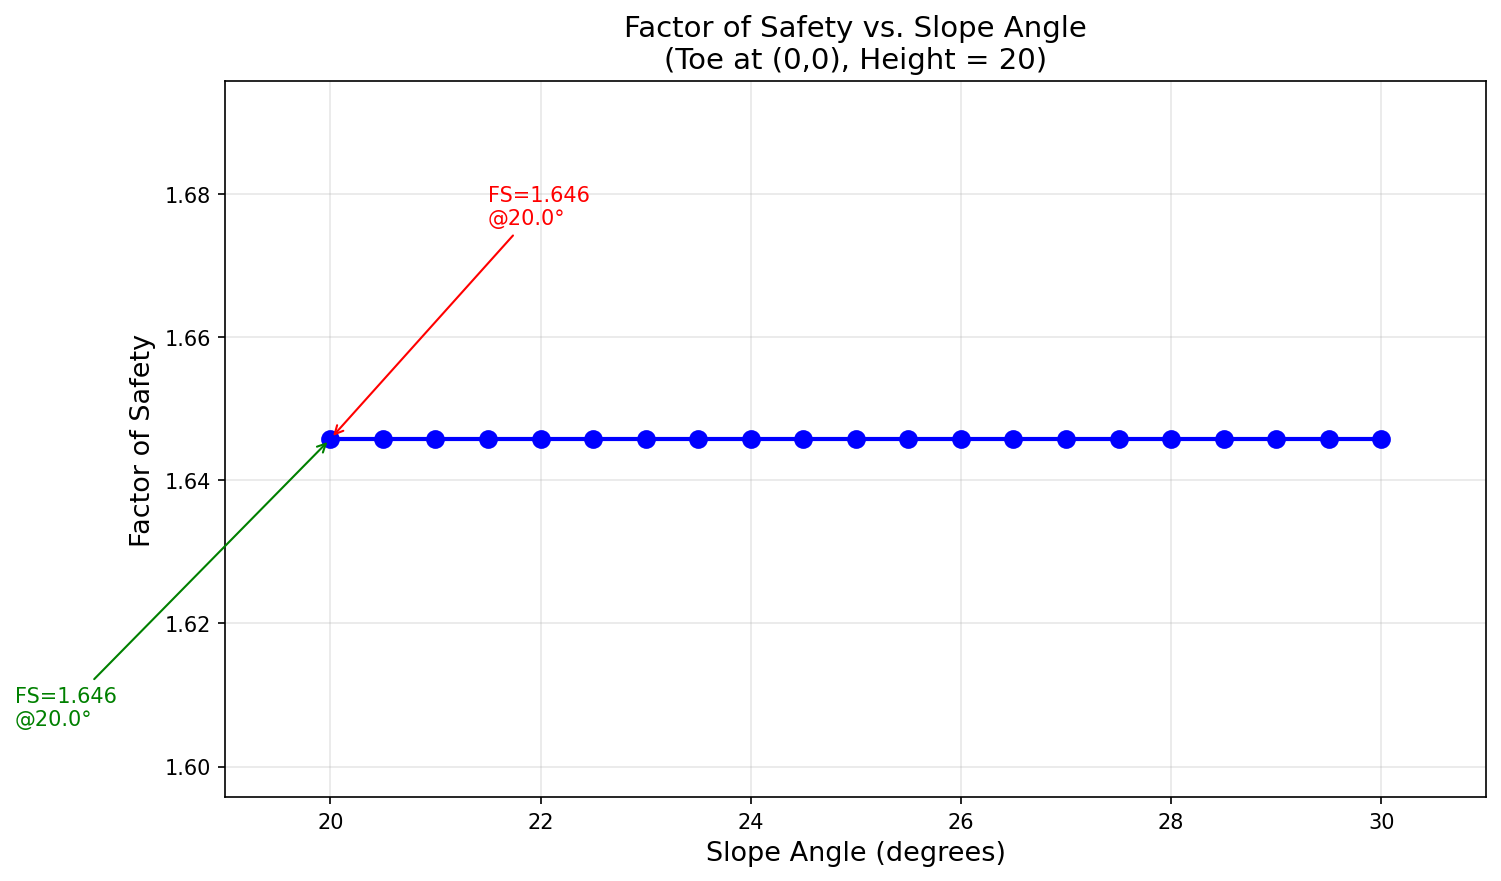
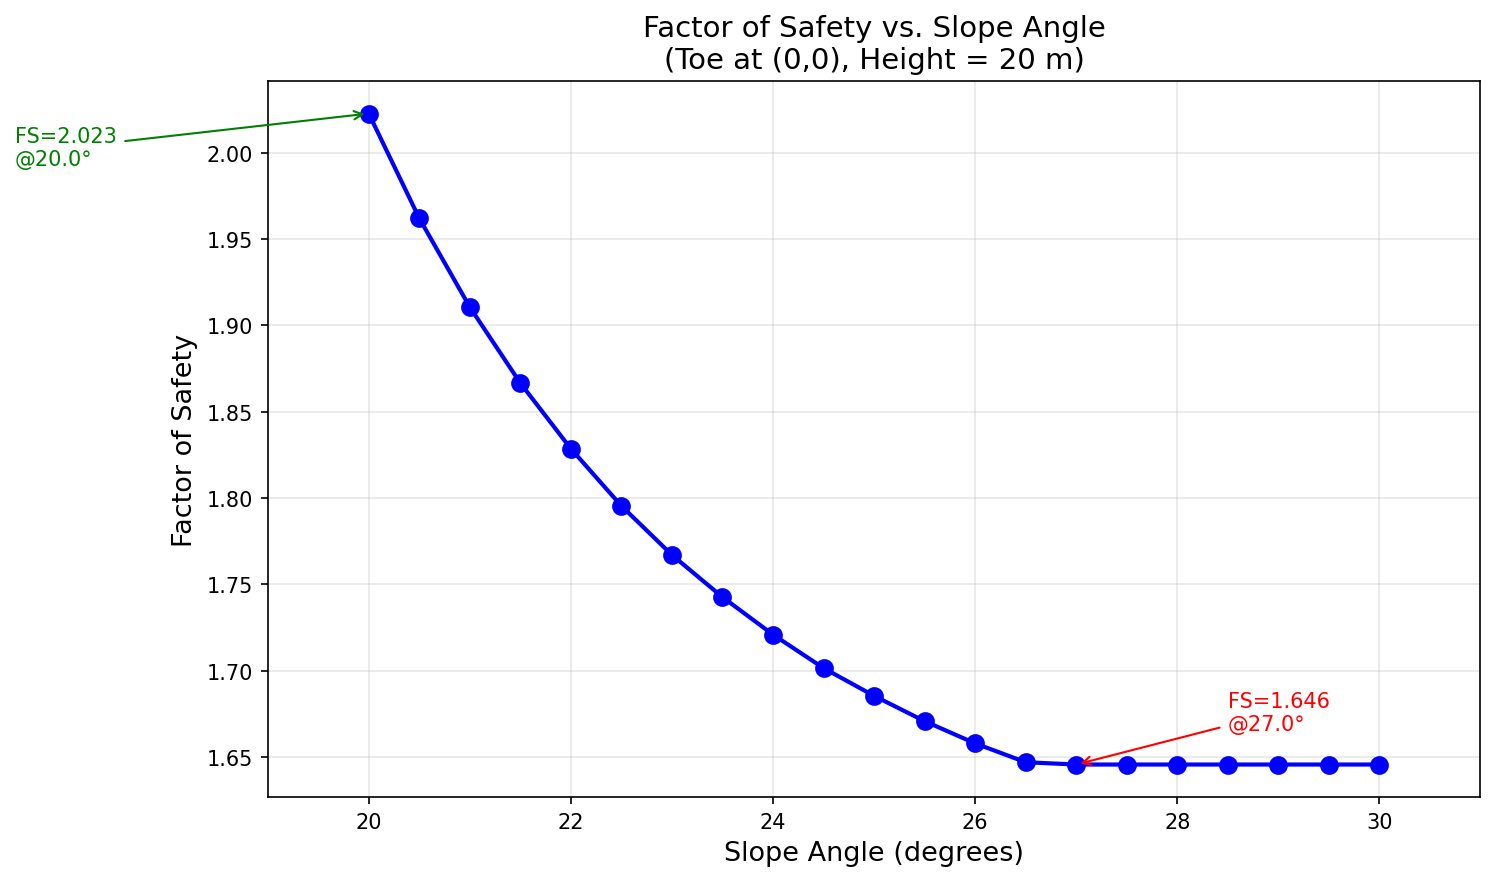
fix(studio): geometry sweeps must rebuild derived geometry per iteration
A parametric sweep that edits profile_lines in a loop and analyzes each step got
a constant FS: the canvas auto-resync (_resync_geometry) runs only once AFTER a
run_python snippet returns, never between loop iterations, so every iteration
analyzed the stale original ground_surface. The assistant then invented a bogus
phi=0 physics explanation. (My SCHEMA_BRIEF "editing the source lists is enough"
reinforced the mistake.)

- kernel: add a `resync_geometry()` helper (rebuilds ground_surface / polygons /
  domain_polygon / tcrack from profile_lines|polygons, reusing the editors'
  _resync_geometry), and have `run_lem()` call it first so geometry edits always
  take effect. run_lem docstring notes plot=False for sweeps.
- prompt: rewrite the SCHEMA_BRIEF geometry note — auto-rebuild happens AFTER the
  snippet, not between in-snippet iterations; call resync_geometry() (or use
  run_lem) in sweeps; and suspect stale geometry FIRST when a sweep looks
  suspiciously constant, before a physics explanation.

Verified: a 20-30 deg sweep now returns varying FS via run_lem auto-resync.

diff --git a/studio/ai/kernel.py b/studio/ai/kernel.py
@@ -44,15 +44,34 @@ class PythonKernel:
         have to reconstruct the engine pipeline (a common failure mode)."""
         doc = self._doc
 
+        def resync_geometry(slope_data=None):
+            """Rebuild the derived geometry (ground_surface, polygons,
+            domain_polygon, tcrack) from the current profile_lines/polygons.
+
+            **Call this after editing geometry inside a snippet** — e.g. a
+            parametric sweep that moves a profile point in a loop. The canvas's
+            automatic resync runs only ONCE, after the whole snippet returns, not
+            between loop iterations — so without this, every iteration analyzes the
+            stale original geometry (a classic constant-result bug). `run_lem`
+            calls this for you; call it yourself before `generate_slices` /
+            `circular_search` / `solve_*` if you drive the pipeline directly."""
+            from studio.editors import _resync_geometry
+            sd = doc.slope_data if slope_data is None else slope_data
+            _resync_geometry(sd)
+            return sd.get("ground_surface")
+
         def run_lem(method="bishop", num_slices=40, rapid=False, plot=True,
                     slope_data=None):
             """Run a single-surface LEM analysis on the loaded project's failure
             surface and return the result dict (includes 'FS'). `method` is one of
             oms, bishop, janbu, spencer, corps, lowe, mprice. Shows the solution
-            plot when plot=True."""
+            plot when plot=True (pass plot=False in sweeps to avoid many figures).
+            Rebuilds derived geometry first, so edits to profile_lines/polygons
+            this snippet made are reflected."""
             from xslope.slice import generate_slices
             from xslope.solve import solve_selected
             sd = doc.slope_data if slope_data is None else slope_data
+            resync_geometry(sd)        # reflect any in-snippet geometry edits
             circle = (sd["circles"][0] if sd.get("circular") and sd.get("circles")
                       else None)
             non_circ = sd.get("non_circ") or None
@@ -75,7 +94,7 @@ class PythonKernel:
                               fig=plt.figure(figsize=(11, 6)))
             return result
 
-        return {"run_lem": run_lem}
+        return {"run_lem": run_lem, "resync_geometry": resync_geometry}
 
     @staticmethod
     def _normalize(code):

diff --git a/studio/ai/assistant.py b/studio/ai/assistant.py
@@ -159,9 +159,17 @@ the canvas re-renders automatically.
 - scalars: gamma_water, max_depth (hard-base elevation), k_seismic, tcrack_depth,
   tcrack_water, circular (bool).
 
-Editing the source lists is enough — the canvas rebuilds derived geometry
-(ground_surface, polygons) and re-renders automatically; you need not call
-plot_inputs. Run LEM via the preloaded `run_lem(method=...)` helper.
+Editing the source lists re-renders the canvas — derived geometry (ground_surface,
+polygons, domain_polygon) is rebuilt automatically AFTER the snippet returns, so a
+one-off edit needs no plot_inputs call. But that auto-rebuild does NOT run between
+iterations WITHIN a snippet: if you vary geometry in a loop (e.g. a parametric
+sweep moving a profile point to change the slope angle), call `resync_geometry()`
+after each edit before analyzing — or use `run_lem(...)`, which resyncs for you.
+Otherwise every iteration analyzes the STALE original geometry and you get a
+constant/flat result. If a sweep result looks suspiciously constant, suspect stale
+derived geometry FIRST (did you resync?) before reaching for a physics explanation.
+Run LEM via the preloaded `run_lem(method=...)` helper (pass plot=False in a sweep
+to avoid one figure per step).
 """
 
 # Compact modeling rules — appended ONLY when the full skill is NOT loaded (i.e.
